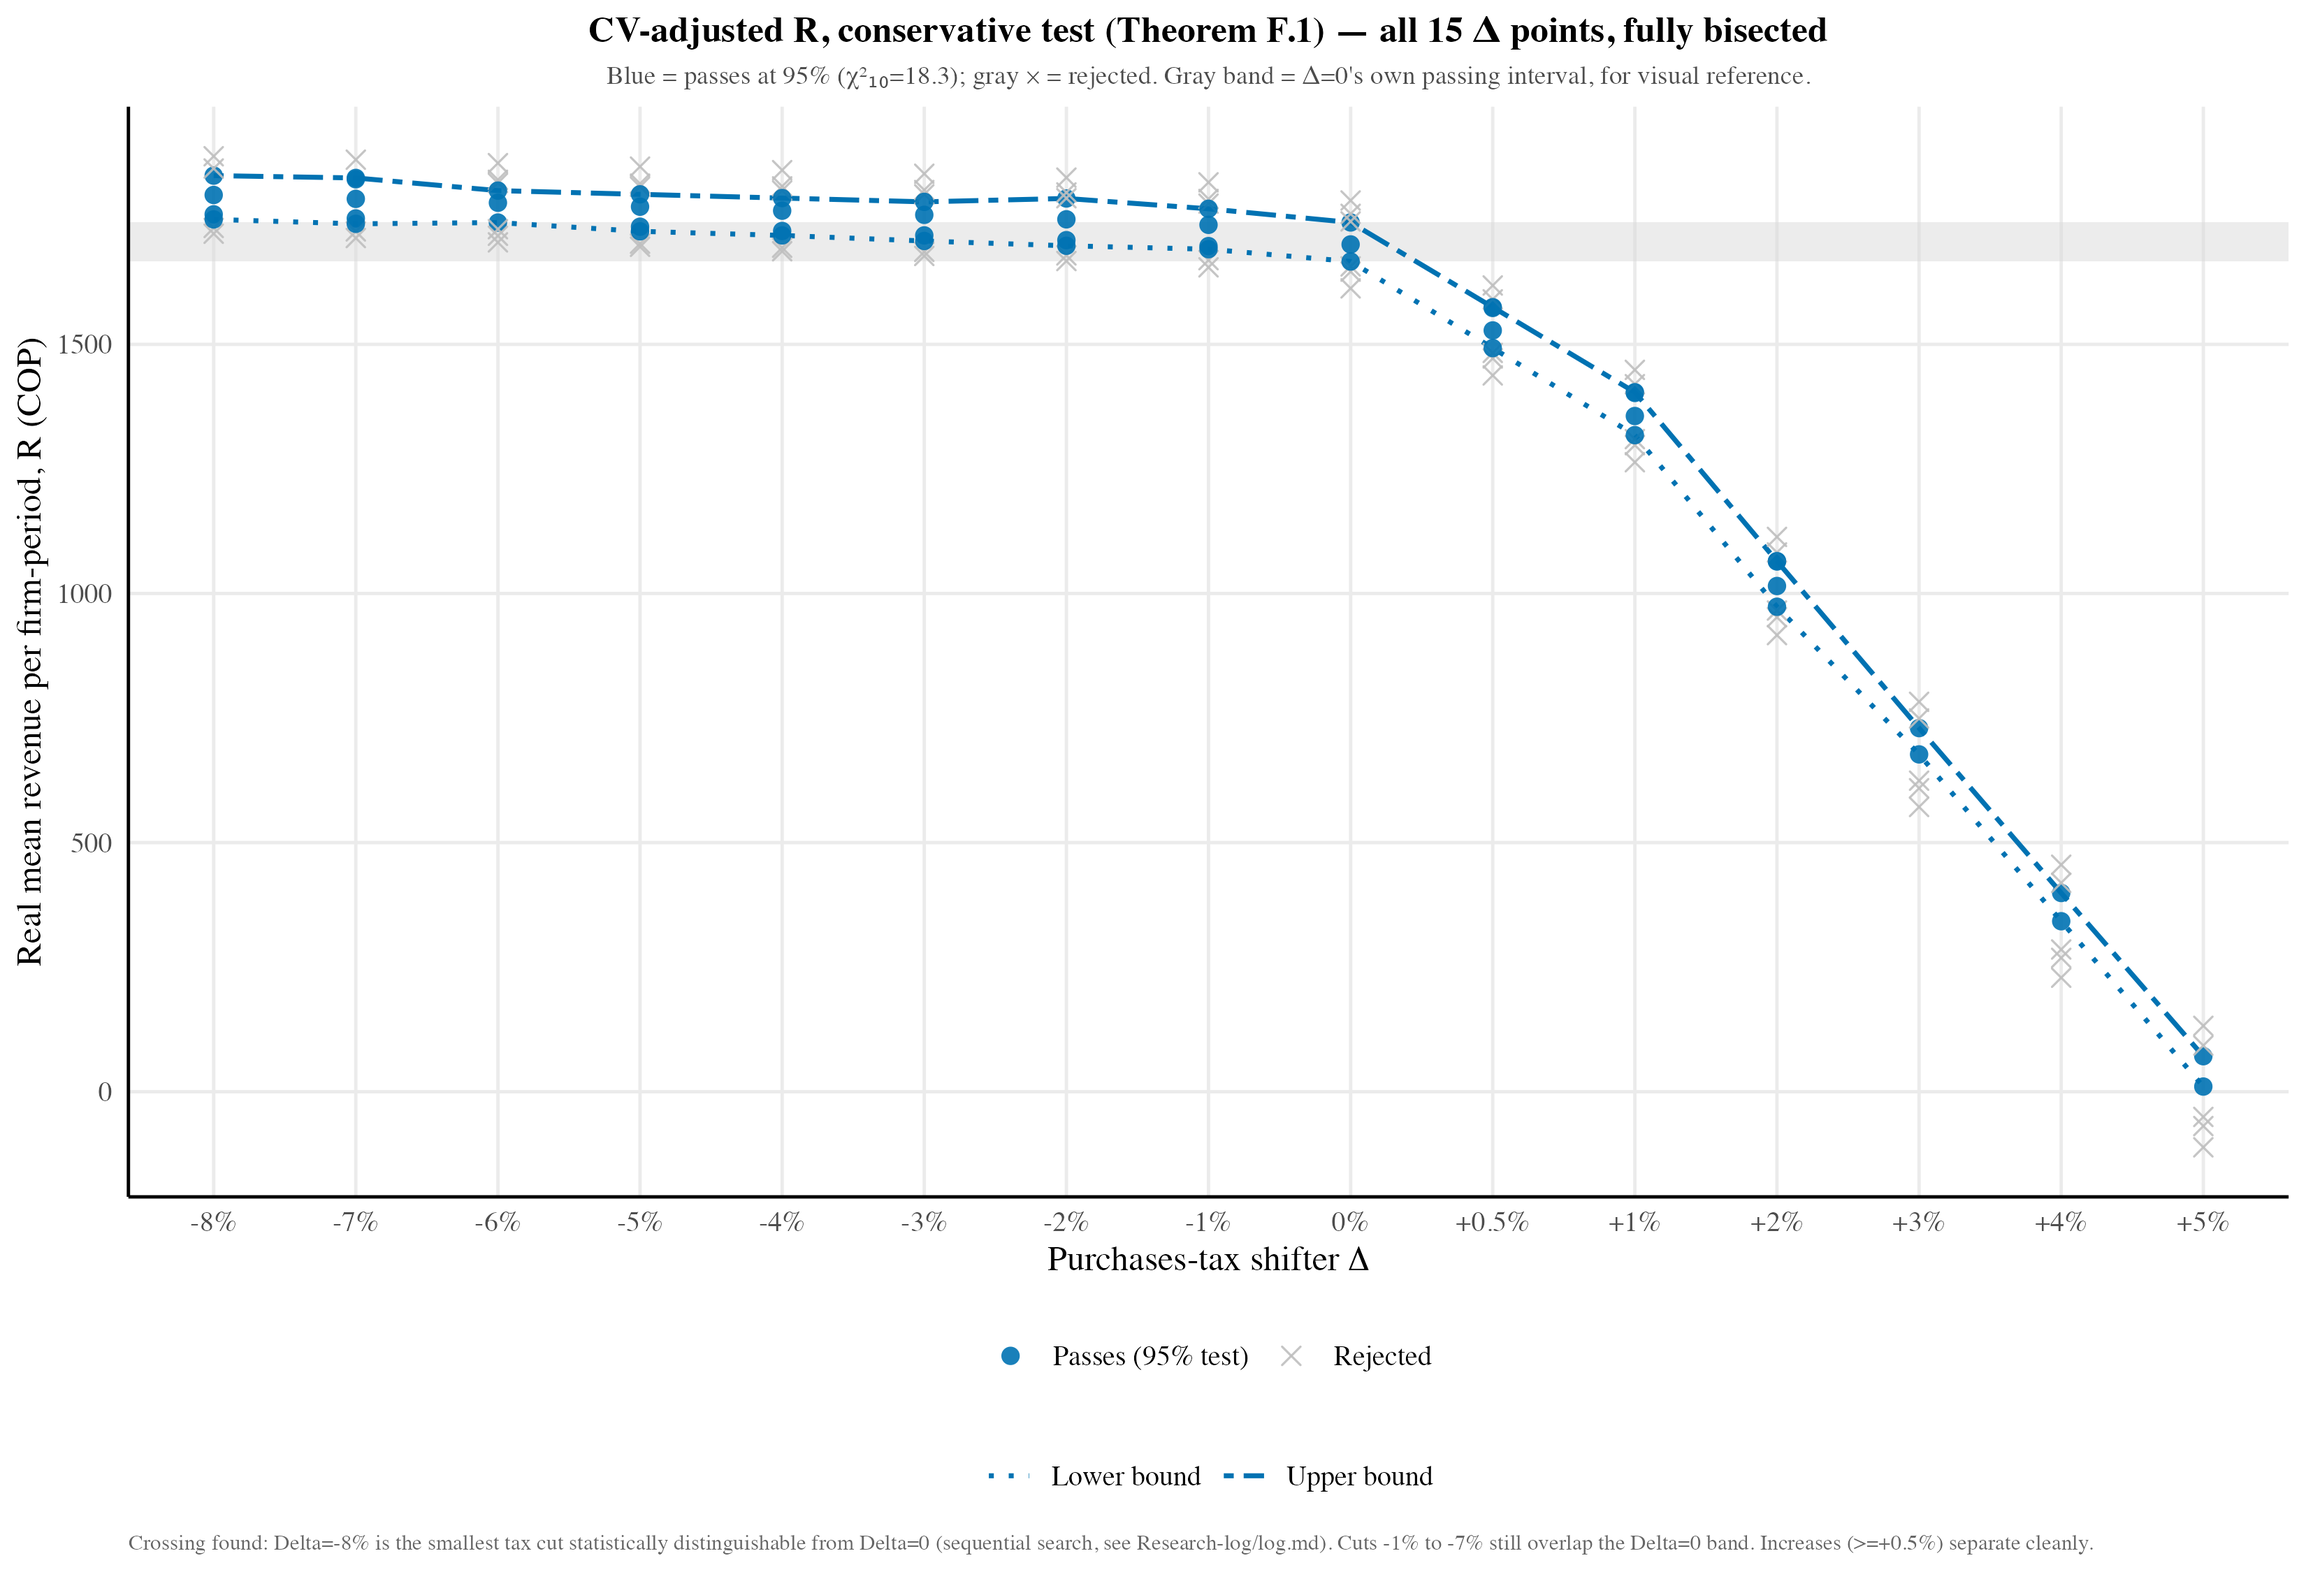
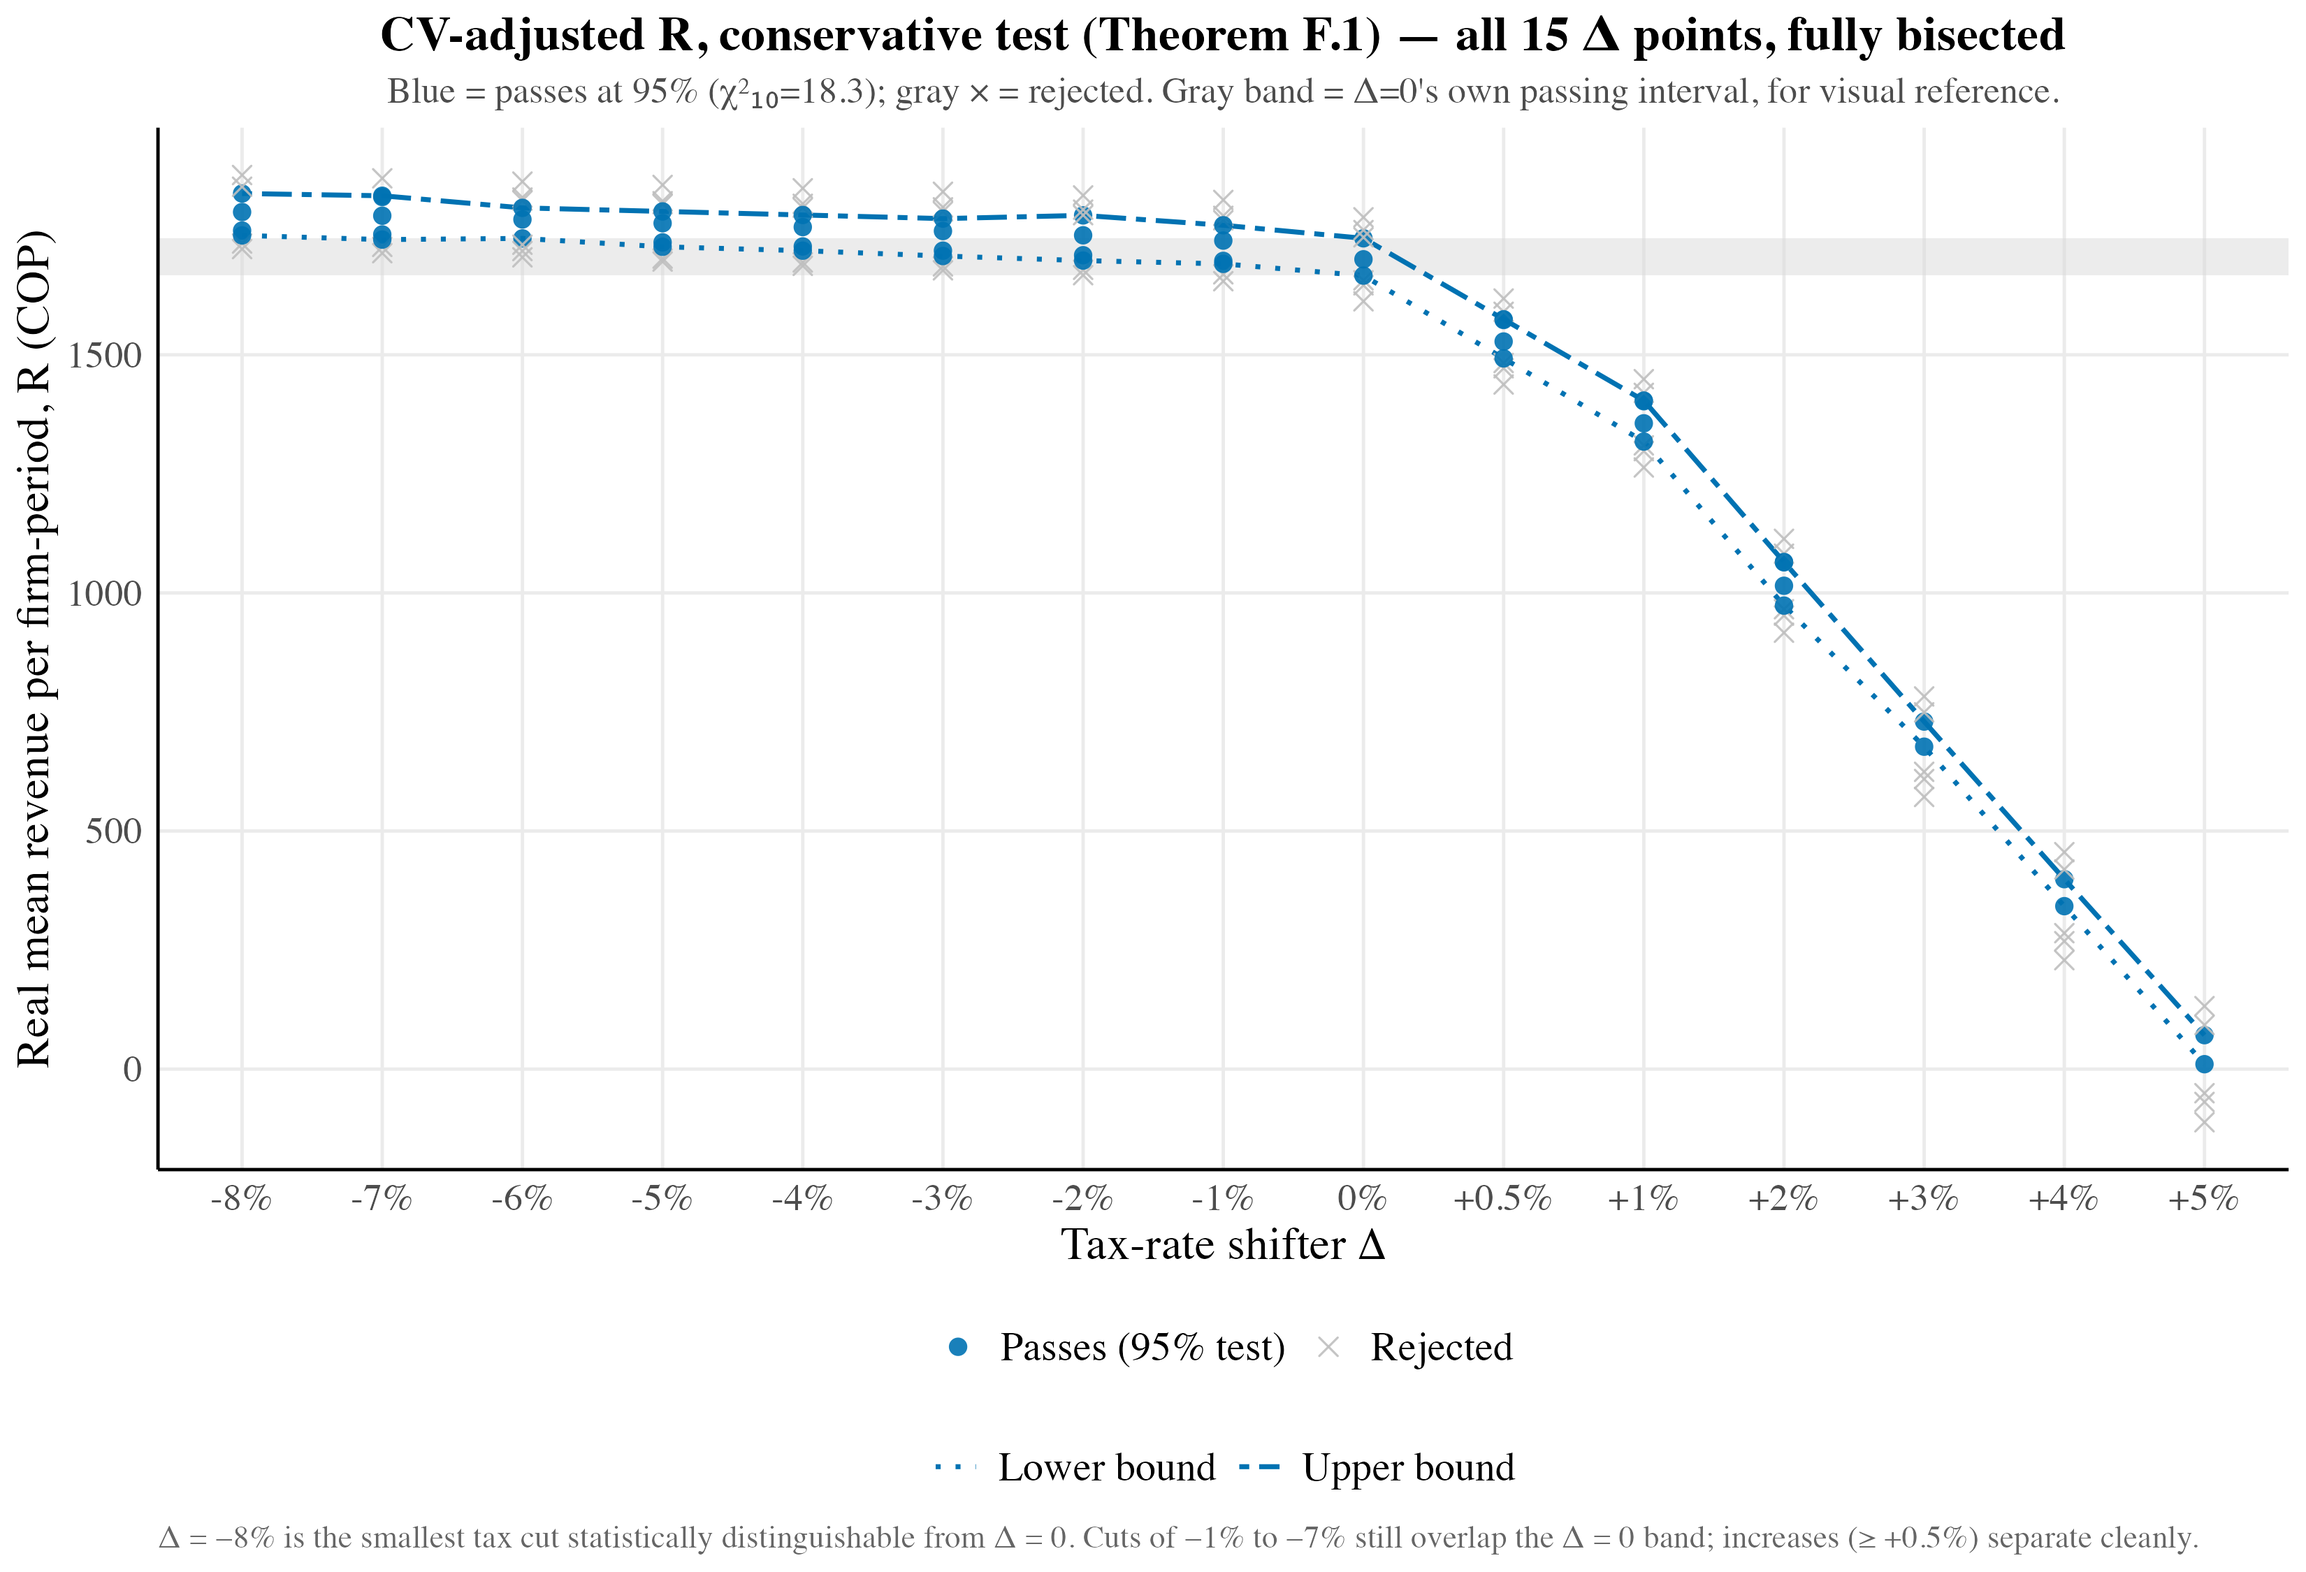
ch. 8 figures: single-tax axis labels, larger text, it subscripts
- Claims and Laffer CI figures: "Tax-rate shifter" axis label, bigger fonts,
  Laffer footnote no longer cites the research log, Claims caption wrapped and
  no longer says t1 is fixed and unaffected
- Headline estimates table: m*_{it-1} / W~_{it-2} headers
- Proof-read report updated (N1/N2 resolved)

diff --git a/Thesis/chapters/08-counterfactual-pr-230926.md b/Thesis/chapters/08-counterfactual-pr-230926.md
@@ -16,7 +16,9 @@ Conventions in force (settled today):
 - **Moment-9 transform** is now documented in @sec-app-elvis → Estimation mechanics. The chapter keeps the conceptual score.
 - **Two-tax draft block:** the penalty is now $\phi\tau_P\rho_te$ (l. 94), so the "Simplifying" line follows. Remaining typo fixed ("vesion").
 
-### New, from the regenerated assets (your call)
+### New, from the regenerated assets — RESOLVED (applied)
+- N1 and N2 are fixed. Both CI figures now say "Tax-rate shifter Δ". The Laffer footnote no longer cites the log. The Claims caption no longer says $t1$ is "fixed and unaffected" and is wrapped so it isn't cut off. Figure text is about 35% bigger (base 12 → 16pt). Table headers now read $m^*_{it-1}$ and $\tilde{\mathcal W}_{it-2}$.
+- Original notes, for reference:
 - **N1. Laffer figure** (`ch08-laffer-ci-hard.png`): the x-axis says "Purchases-tax shifter Δ", which is two-tax wording in the single-tax story. The footnote cites "see Research-log/log.md", an internal reference readers can't see. Both come from `Code/Deconvolution/1300-*`, which also feeds the slides. I can override them in the thesis wrapper, as I did for the title.
 - **N2. Headline estimates table:** column headers read $m^*_{t-1}$ and $\tilde{\mathcal W}_{t-2}$, without the $it$ subscript the text uses ($m^*_{it-1}$).
 
